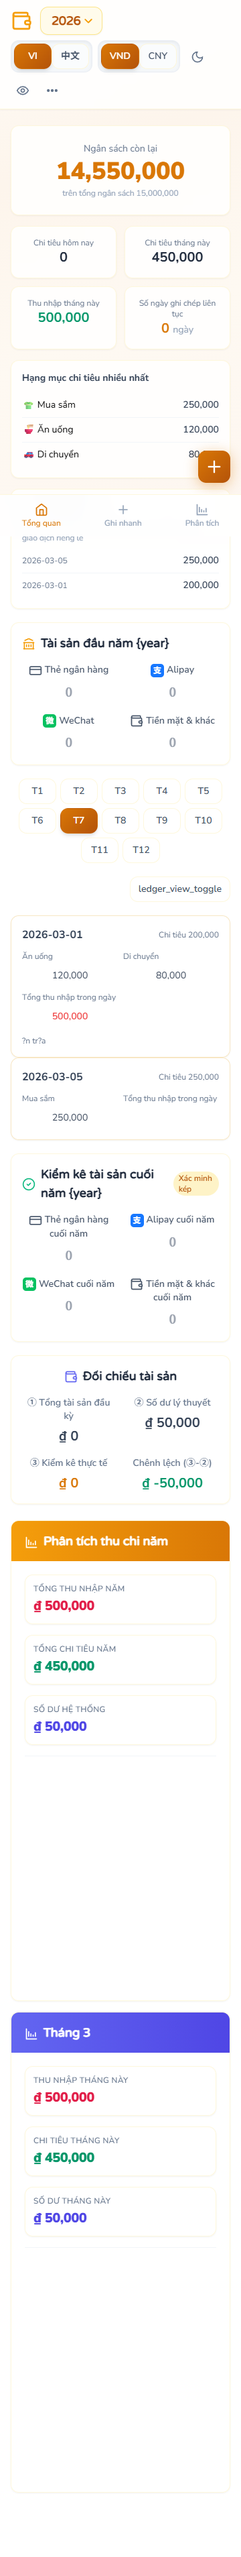
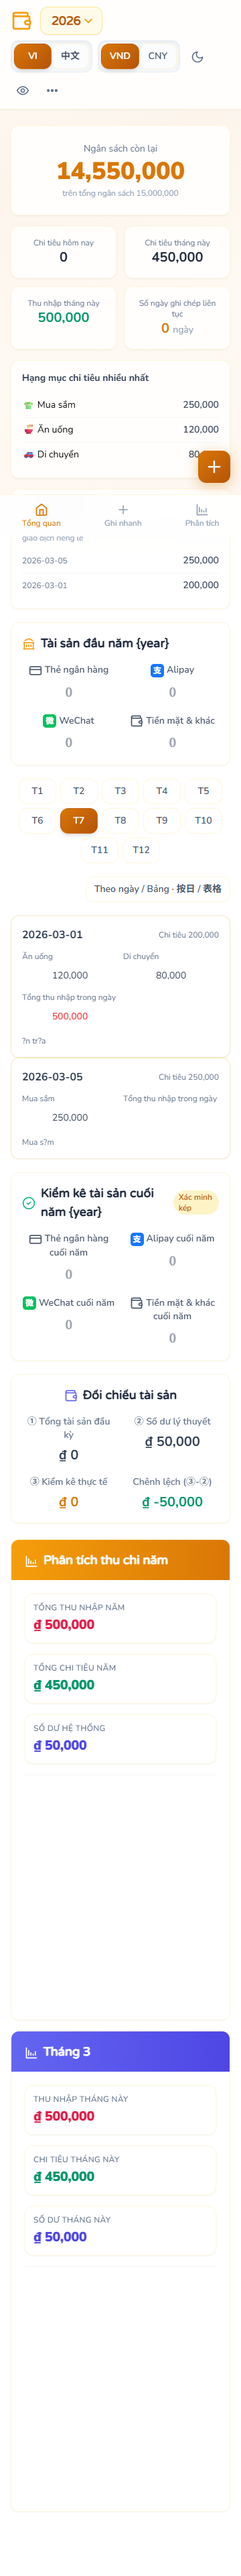
fix(UXS-006): refresh and preserve daily ledger

diff --git a/src/js/render.js b/src/js/render.js
@@ -25,12 +25,15 @@ export function renderDailyLedger(monthId) {
     html += '<article class="daily-ledger-card card p-4"><div class="flex items-center justify-between mb-3"><h3 class="font-bold text-slate-700">' + day.dateKey + '</h3><span class="text-xs text-slate-500">' + t("expense") + ' ' + formatDisplay(day.expenseTotal) + '</span></div><div class="grid grid-cols-2 gap-2">';
     day.cells.forEach(function(cell) { html += '<label class="daily-ledger-cell"><span class="text-xs text-slate-500">' + cell.label + '</span><input class="cell-input daily-ledger-input" data-type="entry" data-key="' + cell.sourceKey + '" value="' + formatDisplay(cell.value) + '" data-raw="' + cell.value + '"></label>'; });
     html += '<label class="daily-ledger-cell"><span class="text-xs text-slate-500">' + t("income_total") + '</span><input class="cell-input daily-ledger-input income-input" data-type="entry" data-key="' + monthId + '_' + day.day + '_income" value="' + (day.income ? formatDisplay(day.income) : '') + '" data-raw="' + (day.income || '') + '"></label></div>';
-    if (day.remark) html += '<p class="daily-ledger-remark text-xs text-slate-500 mt-3"></p>';
+    if (day.remark) html += '<p data-day="' + day.day + '" class="daily-ledger-remark text-xs text-slate-500 mt-3"></p>';
     html += '</article>';
   });
   container.innerHTML = html;
-  var remarks = container.querySelectorAll(".daily-ledger-remark");
-  result.days.forEach(function(day, index) { if (remarks[index]) remarks[index].textContent = day.remark; });
+  result.days.forEach(function(day) {
+    if (!day.remark) return;
+    var remark = container.querySelector('.daily-ledger-remark[data-day="' + day.day + '"]');
+    if (remark) remark.textContent = day.remark;
+  });
   if (activeKey) {
     var activeInput = container.querySelector('[data-key="' + activeKey + '"]');
     if (activeInput) { activeInput.focus(); activeInput.selectionStart = activeInput.value.length; }
@@ -60,6 +63,7 @@ export function softUpdateDOM() {
     updateDOMFromState("entry-" + state.activeMonthId + "-" + d + "-remark", state.appState.entries[state.activeMonthId + "_" + d + "_remark"], false);
   }
   calculateAll();
+  renderDailyLedger(state.activeMonthId);
 }
 
 export function updateDOMFromState(id, rawVNDVal, isMath) {

diff --git a/tests/unit/ledger-view-toggle.test.js b/tests/unit/ledger-view-toggle.test.js
@@ -26,4 +26,21 @@ describe("ledger view toggle", () => {
     expect(document.querySelector('[data-key="3_1_dining"]')).not.toBeNull();
     expect(document.getElementById("months-container").classList.contains("ledger-table-hidden")).toBe(true);
   });
+
+  it("refreshes daily cards on the remote soft-update path and preserves pending input", async () => {
+    document.body.innerHTML = '<div id="daily-ledger-container"></div><div id="months-container"></div>';
+    const { state } = await import("../../src/js/state.js");
+    const { renderDailyLedger, softUpdateDOM } = await import("../../src/js/render.js");
+    state.activeYear = 2026;
+    state.activeMonthId = 3;
+    state.appState = { balances: {}, entries: { "3_1_dining": "100000", "3_5_remark": "later note" }, settings: {} };
+    state.pendingUpdates = { balances: {}, entries: { "3_1_dining": "100000" }, settings: {} };
+    setLedgerView("daily");
+    renderDailyLedger(3);
+    expect(document.querySelector('.daily-ledger-remark[data-day="5"]').textContent).toBe("later note");
+    state.appState.entries["3_1_dining"] = "250000";
+    softUpdateDOM();
+    expect(document.querySelector('[data-key="3_1_dining"]').value).toContain("250,000");
+    expect(state.pendingUpdates.entries["3_1_dining"]).toBe("100000");
+  });
 });

diff --git a/docs/review-evidence/UXS-006.md b/docs/review-evidence/UXS-006.md
@@ -62,13 +62,19 @@ Generated with Puppeteer against the Vite-served `index.html` page using synthet
 
 The fixture uses only synthetic values: dining `120000`, transport `80000`, income `500000`, shopping `250000`, and a synthetic Vietnamese remark.
 
+### Rework R1 → R2
+
+- `softUpdateDOM()` now calls `renderDailyLedger()` after remote-derived state updates; the focused daily input key is restored after rerender and pending updates remain untouched.
+- Remark paragraphs are bound by their own day marker, so a no-remark day before a remark-bearing day cannot shift the displayed remark.
+- All five captures were regenerated from the current Vite-served revision. The capture command exited `0`; each result reported the bilingual toggle `Theo ngày / Bảng · 按日 / 表格`, the expected daily/table default, and `scrollWidth === innerWidth`.
+
 ## Full Gates
 
-Recorded before handoff on the implementation worktree:
+Recorded before handoff on implementation head `pending`:
 
 | Command | Exit code | Key output |
 |---|---:|---|
-| `npm test -- --run` | `0` | 27 files passed, 2 skipped; 195 tests passed, 8 skipped. |
+| `npm test -- --run` | `0` | 27 files passed, 2 skipped; 196 tests passed, 8 skipped. |
 | `npm run typecheck` | `0` | TypeScript completed without errors. |
 | `npm run build` | `0` | Vite built 49 modules; known 500 kB chunk warning only. |
 | `git diff --check` | `0` | No whitespace errors. |
